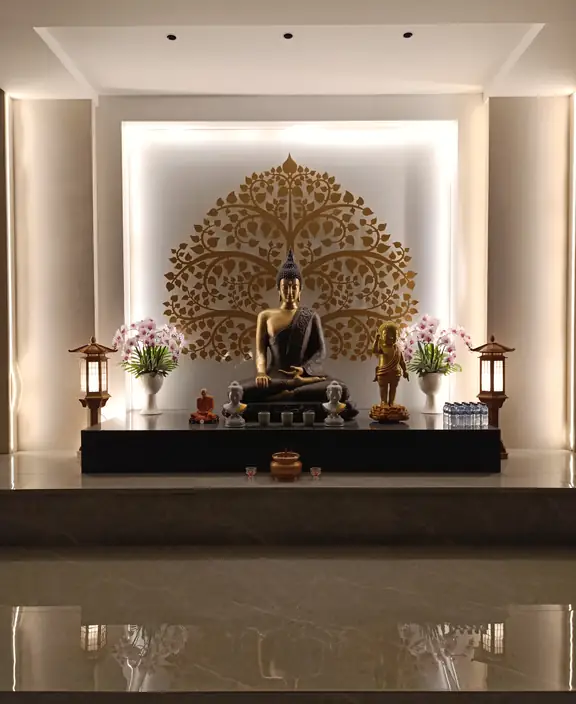
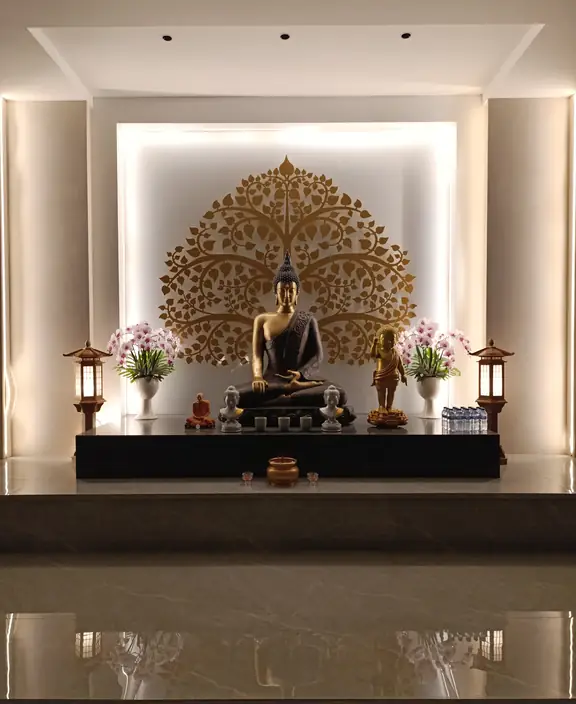
feat(journal): Add Lazy Loading and Change Sub Title

diff --git a/src/routes/journal/visited-buddhist-site/+page.svelte b/src/routes/journal/visited-buddhist-site/+page.svelte
@@ -78,6 +78,7 @@
                                 src={item.pic}
                                 alt={item.title}
                                 class="h-full w-full rounded-t-sm object-cover"
+                                loading="lazy"
                             />
                         </div>
                         <div class="flex grow flex-col p-6">

diff --git a/src/routes/journal/visited-buddhist-site/[id]/+page.svelte b/src/routes/journal/visited-buddhist-site/[id]/+page.svelte
@@ -51,7 +51,7 @@
         </div>
         <div>
             <h3 class="text-xl font-semibold uppercase sm:text-2xl">
-                My Experience
+                My Story About It
             </h3>
             <div class="flex flex-col sm:block">
                 <div
